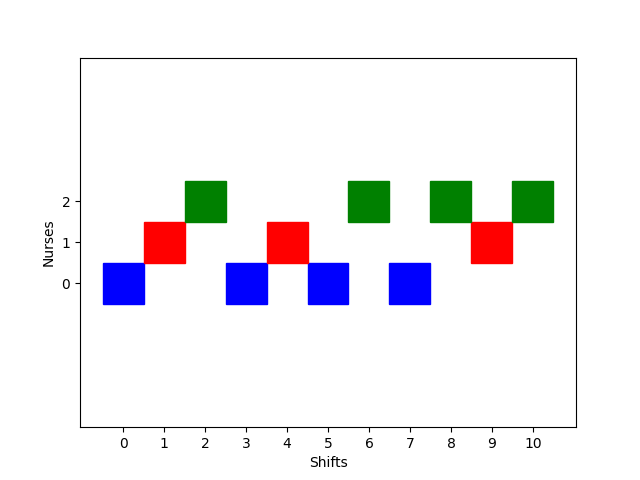
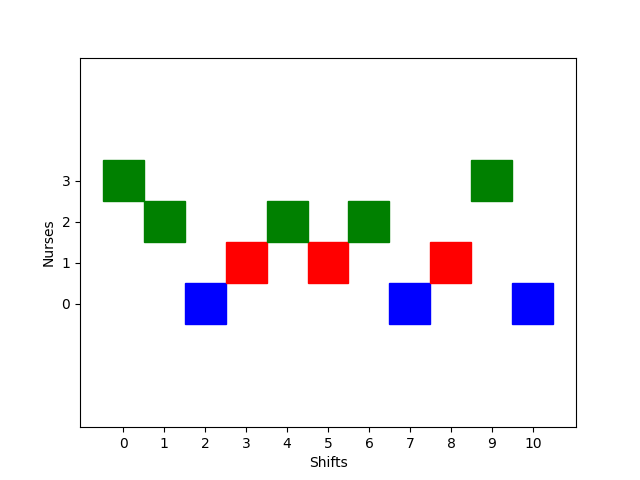
fixed user interface

diff --git a/pages/index.js b/pages/index.js
@@ -10,13 +10,18 @@ export default function Home() {
 
   async function executeSheduler(event) {
   console.log("executeSheduler method started: Nurses: " + nurses , " and Shifts: " + shifts)
-  event.preventDefault();
+        setOutput(null);
+         document.getElementById('outputResponse').innerHTML = "";
+               var image = document.getElementById('res_image');
+          image.src = null;
+        event.preventDefault();
+        var imageFileName = "schedule" + Date. now() + ".png";
         const response = await fetch("/api/execute", {
           method: "POST",
           headers: {
             "Content-Type": "application/json",
           },
-          body: JSON.stringify({ noOfNurses: nurses , noOfShifts: shifts}),
+          body: JSON.stringify({ noOfNurses: nurses , noOfShifts: shifts, imageName: imageFileName}),
         });
       const data = await response.json();
       console.log(data)
@@ -24,6 +29,8 @@ export default function Home() {
       data.result.forEach(function(item, index, arr) {
           document.getElementById('outputResponse').innerHTML += '<p>' + item + '<br/>' + '</p>'
           })
+          console.log(imageFileName);
+      image.src = "/" + imageFileName;
       }
 
   return (
@@ -54,7 +61,7 @@ export default function Home() {
                 </main>
 <div>
       <h4 id="outputResponse" className={styles.boxResults} hidden={output == null}></h4>
-        <img src="/schedule.png" className={styles.result_image} hidden={output == null} />
+        <img id="res_image" className={styles.result_image} hidden={output == null} />
 </div>
     </div>
   );

diff --git a/pages/api/execute.js b/pages/api/execute.js
@@ -5,7 +5,7 @@ export default async function (req, res1) {
     console.log("values passed to execution: " + req.body.noOfNurses +  " and " + req.body.noOfShifts)
     let options = {
         scriptPath: "D:/Alberta/winter-2023/CMPUT604/projects/CMPUT604-NSP/pages/api/",
-        args: [req.body.noOfNurses, req.body.noOfShifts]
+        args: [req.body.noOfNurses, req.body.noOfShifts, req.body.imageName]
     }
     PythonShell.run("nurse_scheduling.py", options, (err, res) => {
     if (err) console.log(err);

diff --git a/pages/api/nurse_scheduling.py b/pages/api/nurse_scheduling.py
@@ -247,7 +247,7 @@ ax.set_xticks(range(n_days))
 ax.set_yticks(range(n_nurses))
 ax.set_xlabel("Shifts")
 ax.set_ylabel("Nurses")
-plt.savefig("./public/schedule.png")
+plt.savefig("./public/" + sys.argv[3])
 
 # Print schedule to command-line
 # print("\nSchedule:\n")
